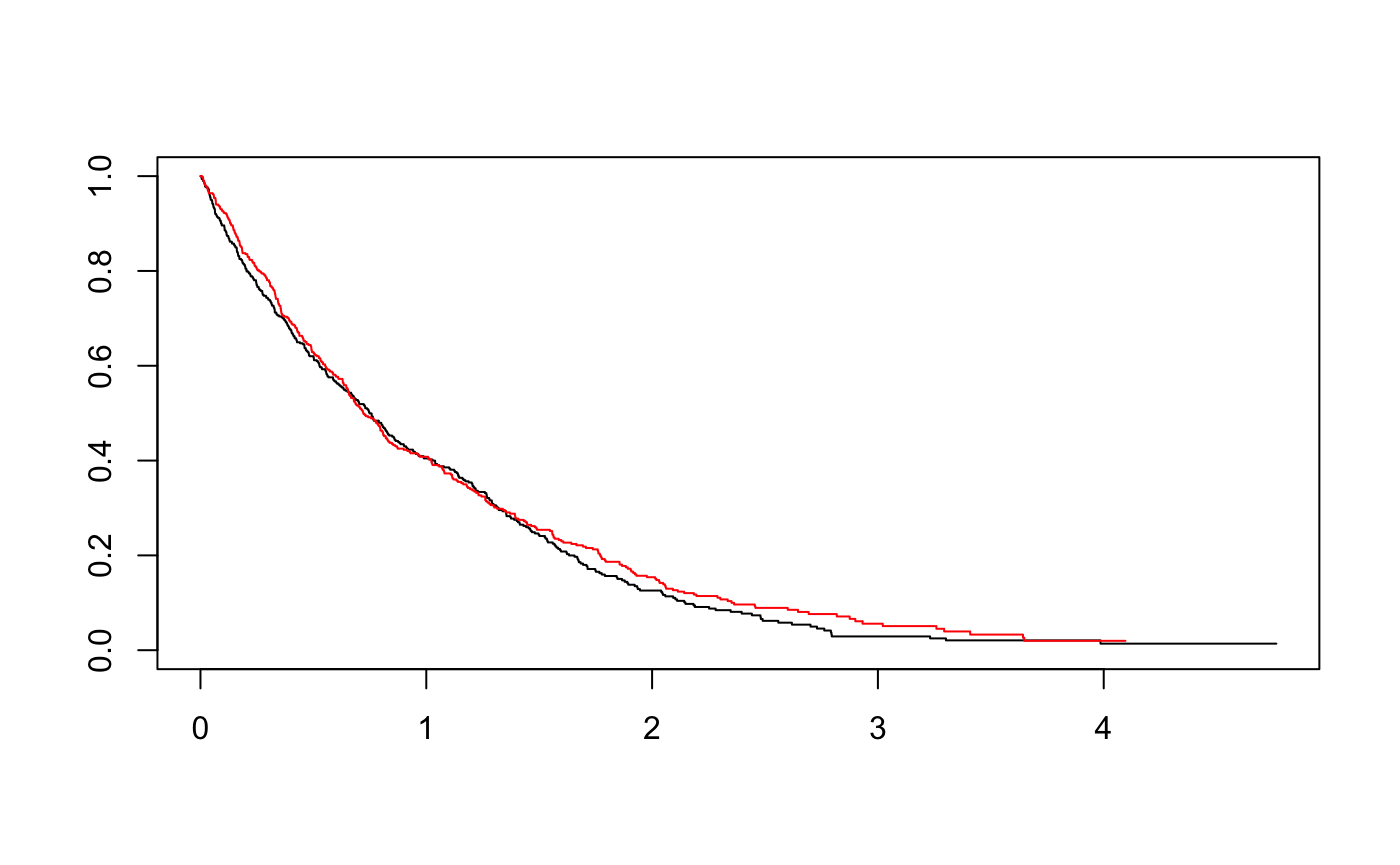
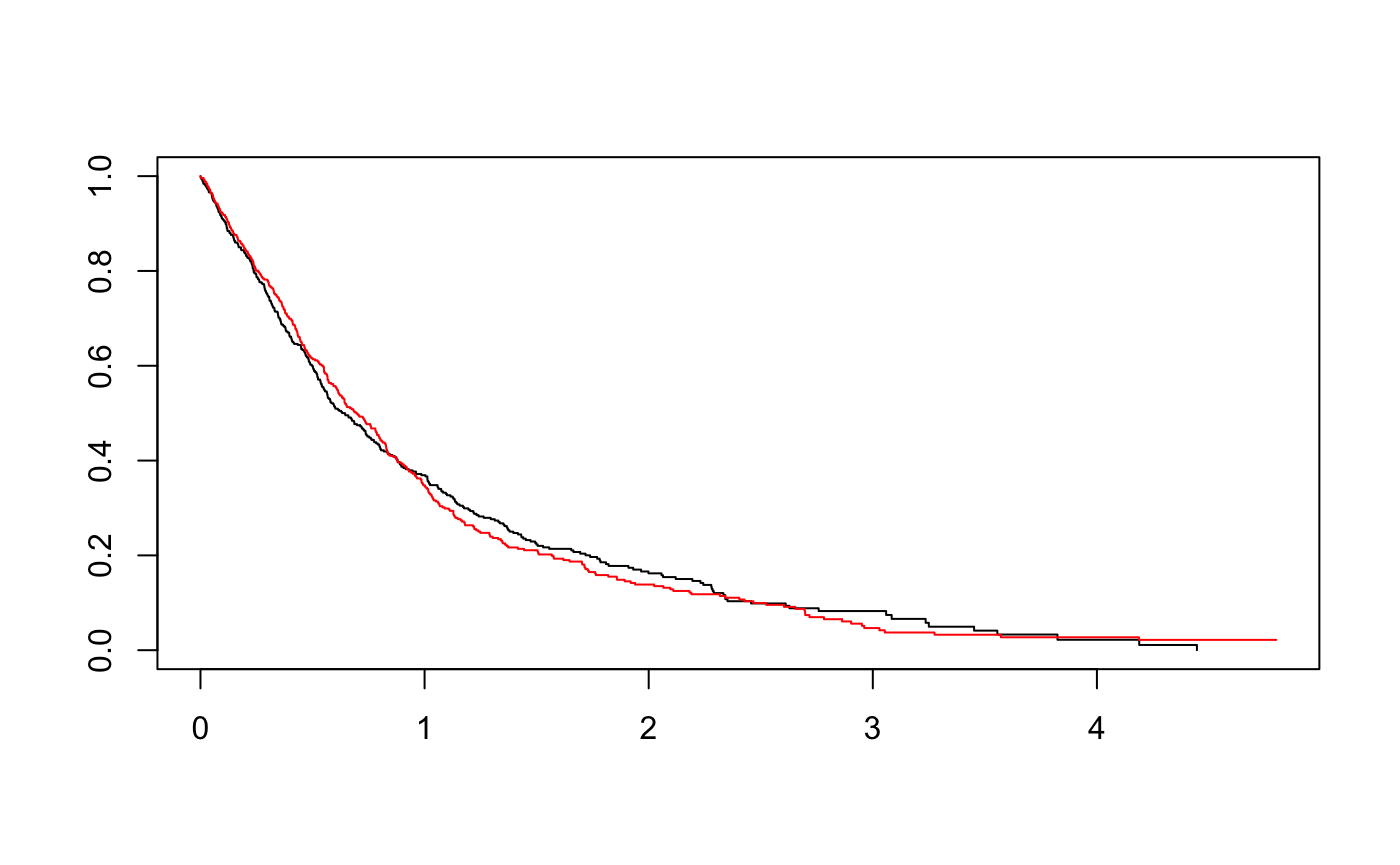
Built site for miboot: 0.0.0.9000@b1e980c

diff --git a/articles/mar.html b/articles/mar.html
@@ -124,15 +124,15 @@
 <span class="co">#&gt; </span>
 <span class="co">#&gt;       pattern</span>
 <span class="co">#&gt; status   1   2   3</span>
-<span class="co">#&gt;      0   0   0 128</span>
-<span class="co">#&gt;      1 458   0   0</span>
+<span class="co">#&gt;      0   0   0 139</span>
+<span class="co">#&gt;      1 416   0   0</span>
 <span class="co">#&gt; </span>
 <span class="co">#&gt; , ,  = TRUE</span>
 <span class="co">#&gt; </span>
 <span class="co">#&gt;       pattern</span>
 <span class="co">#&gt; status   1   2   3</span>
-<span class="co">#&gt;      0   0  47   0</span>
-<span class="co">#&gt;      1 367   0   0</span></pre></body></html></div>
+<span class="co">#&gt;      0   0  65   0</span>
+<span class="co">#&gt;      1 380   0   0</span></pre></body></html></div>
 </div>
 <div id="mar-analysis" class="section level1">
 <h1 class="hasAnchor">
@@ -147,21 +147,21 @@
 <span class="co">#&gt; </span>
 <span class="co">#&gt; Restricted Mean Survival Time (RMST) by arm </span>
 <span class="co">#&gt;               Est.    se lower .95 upper .95</span>
-<span class="co">#&gt; RMST (arm=1) 2.652 0.034     2.586     2.719</span>
-<span class="co">#&gt; RMST (arm=0) 2.570 0.038     2.496     2.644</span>
+<span class="co">#&gt; RMST (arm=1) 2.651 0.034     2.585     2.718</span>
+<span class="co">#&gt; RMST (arm=0) 2.619 0.036     2.549     2.688</span>
 <span class="co">#&gt; </span>
 <span class="co">#&gt; </span>
 <span class="co">#&gt; Restricted Mean Time Lost (RMTL) by arm </span>
 <span class="co">#&gt;               Est.    se lower .95 upper .95</span>
-<span class="co">#&gt; RMTL (arm=1) 0.348 0.034     0.281     0.414</span>
-<span class="co">#&gt; RMTL (arm=0) 0.430 0.038     0.356     0.504</span>
+<span class="co">#&gt; RMTL (arm=1) 0.349 0.034     0.282     0.415</span>
+<span class="co">#&gt; RMTL (arm=0) 0.381 0.036     0.312     0.451</span>
 <span class="co">#&gt; </span>
 <span class="co">#&gt; </span>
 <span class="co">#&gt; Between-group contrast </span>
 <span class="co">#&gt;                       Est. lower .95 upper .95     p</span>
-<span class="co">#&gt; RMST (arm=1)-(arm=0) 0.082    -0.017     0.182 0.105</span>
-<span class="co">#&gt; RMST (arm=1)/(arm=0) 1.032     0.993     1.072 0.106</span>
-<span class="co">#&gt; RMTL (arm=1)/(arm=0) 0.809     0.625     1.046 0.106</span></pre></body></html></div>
+<span class="co">#&gt; RMST (arm=1)-(arm=0) 0.033    -0.064     0.129 0.505</span>
+<span class="co">#&gt; RMST (arm=1)/(arm=0) 1.013     0.976     1.050 0.505</span>
+<span class="co">#&gt; RMTL (arm=1)/(arm=0) 0.914     0.702     1.191 0.505</span></pre></body></html></div>
 </div>
 <div id="rmst-within-group" class="section level2">
 <h2 class="hasAnchor">
@@ -170,8 +170,8 @@
 <span class="no">tmp</span> <span class="kw">&lt;-</span> <span class="fu">rmst_delta</span>(<span class="no">time</span>, <span class="no">status</span>, <span class="kw">x</span> <span class="kw">=</span> <span class="fu"><a href="https://rdrr.io/r/base/rep.html">rep</a></span>(<span class="fl">1</span>, <span class="fu"><a href="https://rdrr.io/r/base/length.html">length</a></span>(<span class="no">time</span>)), <span class="no">group</span>, <span class="no">pattern</span>, <span class="no">delta</span>, <span class="no">tau</span>, <span class="kw">n_mi</span> <span class="kw">=</span> <span class="fl">5</span>, <span class="kw">n_b</span> <span class="kw">=</span> <span class="fl">100</span>, <span class="kw">seed</span> <span class="kw">=</span> <span class="fl">1234</span>)
 <span class="no">tmp</span>$<span class="no">rmst</span>
 <span class="co">#&gt;      group      rmst         sd      wb_sd</span>
-<span class="co">#&gt; [1,]     0 0.9580264 0.03703283 0.03654389</span>
-<span class="co">#&gt; [2,]     1 1.0134100 0.04038940 0.03606597</span></pre></body></html></div>
+<span class="co">#&gt; [1,]     0 0.9719931 0.04113074 0.03680711</span>
+<span class="co">#&gt; [2,]     1 0.9419732 0.03969148 0.03693638</span></pre></body></html></div>
 </div>
 <div id="rmst-between-group" class="section level2">
 <h2 class="hasAnchor">
@@ -185,9 +185,9 @@
 
 <span class="fu"><a href="https://rdrr.io/r/base/cbind.html">rbind</a></span>( <span class="fu">diff_rmst</span>(<span class="no">tmp</span>$<span class="no">rmst</span>[,<span class="st">"rmst"</span>], <span class="no">tmp</span>$<span class="no">rmst</span>[, <span class="st">"sd"</span>]),
        <span class="fu">diff_rmst</span>(<span class="no">tmp</span>$<span class="no">rmst</span>[,<span class="st">"rmst"</span>], <span class="no">tmp</span>$<span class="no">rmst</span>[, <span class="st">"wb_sd"</span>]))
-<span class="co">#&gt;            diff         sd         p</span>
-<span class="co">#&gt; [1,] 0.05538358 0.05479721 0.3121596</span>
-<span class="co">#&gt; [2,] 0.05538358 0.05134404 0.2807322</span></pre></body></html></div>
+<span class="co">#&gt;             diff         sd         p</span>
+<span class="co">#&gt; [1,] -0.03001992 0.05715900 0.5994440</span>
+<span class="co">#&gt; [2,] -0.03001992 0.05214461 0.5648144</span></pre></body></html></div>
 </div>
 </div>
   </div>
